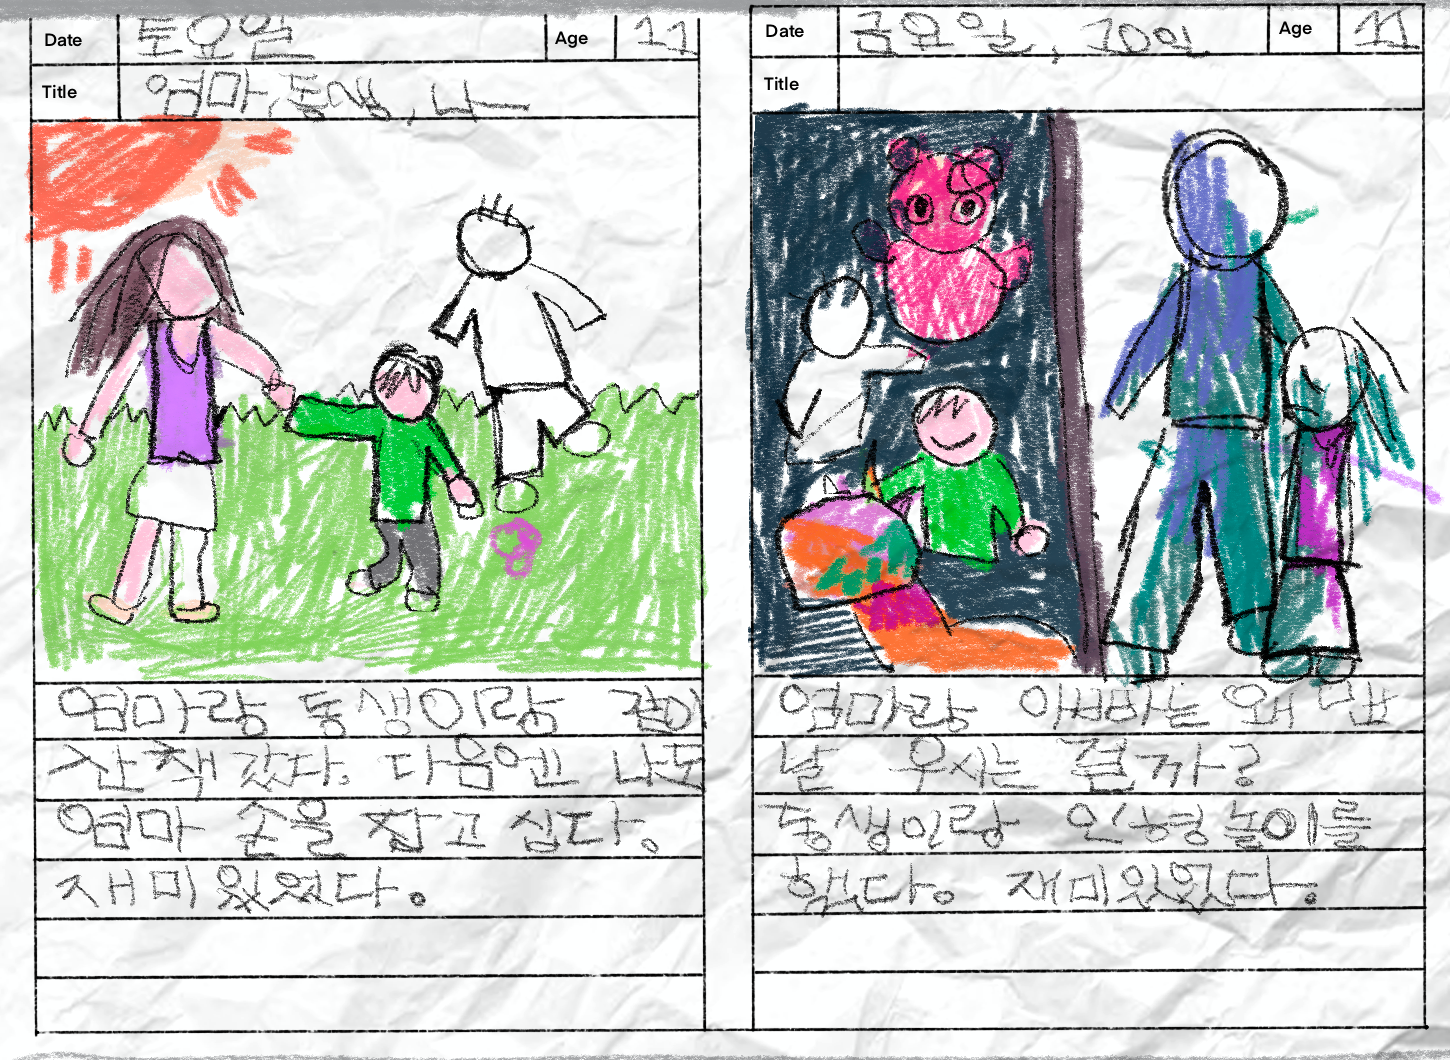
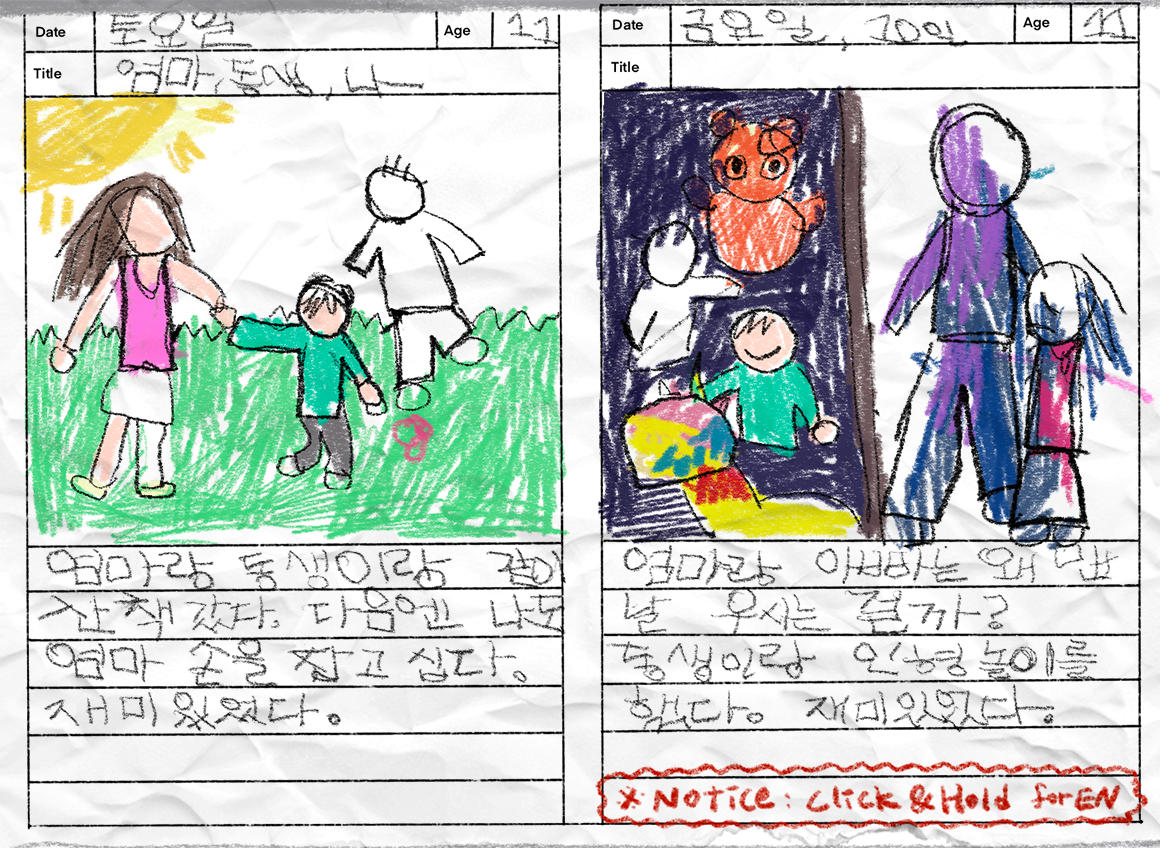
add EN instructions, change YJ img

diff --git a/index.html b/index.html
@@ -22,7 +22,7 @@
         <div class="landingAsset">
             <img src="./assets/head.gif">
             <p class="title">persona</p>
-            <h1><br> 입장하기 위해 마우스를 움직이세요<br>To enter, please move the mouse</h1>
+            <h1 class="landingWord"><br> 입장하기 위해 마우스를 움직이세요<br>To enter, please move the mouse</h1>
         </div>
     </div>
 
@@ -94,22 +94,8 @@
                 <img src="./assets/title.gif">
             </div>
             <article id="Intro" data-domain="local" data-loaded="1" data-name="Persona Introduction">
-                <!-- <div class="text">
-                    <h1>Introduction</h1> 
-                    <p>
-                        <br><br>Welcome! This unique online space allows you to delve into 'Jeff's' memories and mental world. 
-                        Immerse yourself in Jeff's world through our prepared video series and interactive elements. For a smooth viewing experience, please refer to the following guidelines.
-                        <br><br>
-                        <br><br>1.To understand the story, watch the videos in alphabetical order from 'a' to 'i'.
-                        <br><br>2.Use the mini-map located at the top left to freely explore this space!
-                        <br><br>3.If you look closely at the elements within the space, you'll be able to discover new things!
-                        <br><br>4.We would appreciate it if you could leave your fresh perspectives and experiences in our guestbook.
-                        <br><br>
-                        <br><br>Enjoy your exploration!
-                    </p>
-                </div> -->
-
-                <div class="text">
+              
+              <div id="KRintro" class="text">
                     <h1>안내글</h1> 
                     <p>
                         <br><br>환영합니다! 이 공간은 프로이트와 칼융의 심리학에 기반하여 제작된 곳으로 인간의 페르소나를 주제로 다루고 있습니다.
@@ -125,13 +111,41 @@
                         <br>
                         <li>ZONE1은 소개글과 영상, </li>
                         <li>ZONE2는 제프의 유년기,</li>
-                        <li>ZONE3은 우측 상단 공간은 제프의 청소년기,</li>
-                        <li>ZONE4는 우측 하단의 공간은 제프의 현재</li>
+                        <li>ZONE3는 제프의 청소년기,</li>
+                        <li>ZONE4는 제프의 현재 이야기,</li>
                         <li>ZONE5는 이 이야기의 엔딩을 다루고 있습니다.</li>
                         <br>미니맵을 통해 다섯 구역을 자유롭게 돌아다니며 <b>영상을 차례대로 관람</b>해주세요!
                         <br>모니터 좌측 '페르소나 관람 메뉴얼'을 참고하셔도 좋습니다!
                     </p>
                 </div>
+
+                  <div id="ENintro" class="text" style="display:none">
+                    <h1>Instructions</h1> 
+                    <p>
+                        <br><br>Welcome! This unique online space based on the psychology of Freud and Carl Jung and explores the theme of the human personality. 
+                        By <ins><b>watching the videos in order,</ins></b> you can explore the psyche of the main character, Jeff.
+                        To ensure a smooth experience, <ins><b>please follow the guidelines below</ins></b> 👀🌟👀.
+                        <br>
+                        <br><br>▪ <i><b>Tap the mini-map</i></b> in the top left corner to move around freely!
+                        <br><br>▪ Please refer to the minimap and <i><b>view videos alphabetically</i></b> from 'Video A' to 'Video G'.
+                        <br><br>▪ <i><b>Hover over objects</i></b> near the video to read Jeff's diary entry
+                        <br><br>▪ When you're done, go to the GUEST BOOK section and leave a comment of your experience🤍
+                        <br><br>
+                        <br><br>The space is divided into five main areas.
+                        <br>
+                        <li>ZONE1 is more like an Introduction part,</li>
+                        <li>ZONE2 is about Jeff's childhood,</li>
+                        <li>ZONE3 is about Jeff's Adolescence,</li>
+                        <li>ZONE4 is showing Jeff's current story</li>
+                        <li>ZONE5 is dealing with the ending of this whole story.</li>
+                        <br>Use the minimap to move around the five zones and <b>watch the videos in order!</b>
+                        <br>You can also refer to 'Persona Manual' on the left side of the screen!
+
+
+                        <br><br>Enjoy your exploration!
+                    </p>
+                </div>
+                <button id="toggleButton" class="toggleButton">KR/EN 전환</button>
             </article>
 
             <div class="mapIcon" style="width: 18.12px; height: 14.04px; top: 2840px; left: 970px; z-index: 0; border: none; background: black;">
@@ -147,46 +161,46 @@
     
             <article id="VideoB" class="" data-domain="youtube-nocookie.com" data-loaded="1" data-id="" data-type="art" data-src="https://www.youtube-nocookie.com/embed/2h70osEDvX8?autoplay=0&amp;controls=1&amp;rel=0&amp;enablejsapi=1&amp;playsinline=1" data-name="VideoB" data-youtubesync="true" style="z-index: 1; top: 4930px; left: 360px; width: 1600px; height: 970px; border-width: 1px; background-color: rgb(255, 255, 255);">
                 <div style="width:100%; height:100%" class="iframe">
-                    <iframe id="iframe2" class="iframe" data-showvolume="true" data-volume="100" scrolling="no" frameborder="0" allow="autoplay" muted="" width="100%" height="100%" tabindex="-1" title="VideoB" src="https://www.youtube-nocookie.com/embed/2h70osEDvX8?autoplay=0&amp;controls=0&amp;rel=0&amp;enablejsapi=1&amp;playsinline=1" data-video="false">
+                    <iframe id="iframe2" class="iframe" data-showvolume="true" data-volume="100" scrolling="no" frameborder="0" allow="autoplay" muted="" width="100%" height="100%" tabindex="-1" title="VideoB" src="https://www.youtube-nocookie.com/embed/2h70osEDvX8?autoplay=0&amp;controls=1&amp;rel=0&amp;enablejsapi=1&amp;playsinline=1" data-video="false">
                     </iframe>
                     <input type="range" min="0" max="100" step="10" class="volumeSlider" data-player-id="artwork39">
                 </div>
             </article>
             <article id="VideoC" class="" data-domain="youtube-nocookie.com" data-loaded="0" data-type="art" data-src="https://www.youtube-nocookie.com/embed/hIggOw_jNdE?autoplay=0&amp;controls=1&amp;rel=0&amp;enablejsapi=1&amp;playsinline=1" data-name="VideoC" data-youtubesync="true" style="z-index: 1; top: 6050px; left: 1970px; width: 1608px; height: 1000px; border-width: 1px; background-color: rgb(255, 255, 255);">
                 <div style="width:100%; height:100%" class="iframe">
-                    <iframe id="iframe3" class="iframe" data-showvolume="true" data-volume="100" scrolling="no" frameborder="0" allow="autoplay" muted="" width="100%" height="100%" tabindex="-1" title="VideoC" src="https://www.youtube-nocookie.com/embed/hIggOw_jNdE?autoplay=0&amp;controls=0&amp;rel=0&amp;enablejsapi=1&amp;playsinline=1" data-video="false">
+                    <iframe id="iframe3" class="iframe" data-showvolume="true" data-volume="100" scrolling="no" frameborder="0" allow="autoplay" muted="" width="100%" height="100%" tabindex="-1" title="VideoC" src="https://www.youtube-nocookie.com/embed/hIggOw_jNdE?autoplay=0&amp;controls=1&amp;rel=0&amp;enablejsapi=1&amp;playsinline=1" data-video="false">
                     </iframe>
                 </div>
             </article>
-            <article id="VideoD" class="" data-domain="youtube-nocookie.com" data-loaded="0" data-id="" data-type="art" data-src="https://www.youtube-nocookie.com/embed/zn8-R2NWNJ0?autoplay=0&amp;controls=1&amp;rel=0&amp;enablejsapi=1&amp;playsinline=1" data-name="VideoD" data-youtubesync="true" style="z-index: 1; top: 900px; left: 5920px; width: 1500px; height: 900px; border-width: 1px; background-color: rgb(255, 255, 255);">
+            <article id="VideoD" class="" data-domain="youtube-nocookie.com" data-loaded="0" data-id="" data-type="art" data-src="https://www.youtube-nocookie.com/embed/2m66KQFcw1I?autoplay=0&amp;controls=1&amp;rel=0&amp;enablejsapi=1&amp;playsinline=1" data-name="VideoD" data-youtubesync="true" style="z-index: 1; top: 900px; left: 5920px; width: 1500px; height: 900px; border-width: 1px; background-color: rgb(255, 255, 255);">
                 <div style="width:100%; height:100%" class="iframe">
-                    <iframe id="iframe4" class="iframe" data-showvolume="true" data-volume="100" scrolling="no" frameborder="0" allow="autoplay" muted="" width="100%" height="100%" tabindex="-1" title="VideoD" src="https://www.youtube-nocookie.com/embed/zn8-R2NWNJ0?autoplay=0&amp;controls=0&amp;rel=0&amp;enablejsapi=1&amp;playsinline=1" data-video="false">
+                    <iframe id="iframe4" class="iframe" data-showvolume="true" data-volume="100" scrolling="no" frameborder="0" allow="autoplay" muted="" width="100%" height="100%" tabindex="-1" title="VideoD" src="https://www.youtube-nocookie.com/embed/2m66KQFcw1I?autoplay=0&amp;controls=1&amp;rel=0&amp;enablejsapi=1&amp;playsinline=1" data-video="false">
                     </iframe>
                 </div>
             </article>
-            <article id="VideoE" class="" data-domain="youtube-nocookie.com" data-loaded="0" data-id="" data-type="art" data-src="https://www.youtube-nocookie.com/embed/zn8-R2NWNJ0?autoplay=0&amp;controls=1&amp;rel=0&amp;enablejsapi=1&amp;playsinline=1" data-name="VideoE" data-youtubesync="true" style="z-index: 1; top: 6580px; left: 5200px; width: 1515px; height: 820px; border-width: 1px; background-color: rgb(255, 255, 255);">
+            <article id="VideoE" class="" data-domain="youtube-nocookie.com" data-loaded="0" data-id="" data-type="art" data-src="https://www.youtube-nocookie.com/embed/2m66KQFcw1I?autoplay=0&amp;controls=1&amp;rel=0&amp;enablejsapi=1&amp;playsinline=1" data-name="VideoE" data-youtubesync="true" style="z-index: 1; top: 6580px; left: 5200px; width: 1515px; height: 820px; border-width: 1px; background-color: rgb(255, 255, 255);">
                 <div style="width:100%; height:100%" class="iframe">
-                    <iframe id="iframe6" class="iframe" data-showvolume="true" data-volume="100" scrolling="no" frameborder="0" allow="autoplay" muted="" width="100%" height="100%" tabindex="-1" title="VideoE" src="https://www.youtube-nocookie.com/embed/zn8-R2NWNJ0?autoplay=0&amp;controls=0&amp;rel=0&amp;enablejsapi=1&amp;playsinline=1" data-video="false">
+                    <iframe id="iframe6" class="iframe" data-showvolume="true" data-volume="100" scrolling="no" frameborder="0" allow="autoplay" muted="" width="100%" height="100%" tabindex="-1" title="VideoE" src="https://www.youtube-nocookie.com/embed/2m66KQFcw1I?autoplay=0&amp;controls=1&amp;rel=0&amp;enablejsapi=1&amp;playsinline=1" data-video="false">
                     </iframe>
                 </div>
             </article>
-            <article id="VideoF" class="" data-domain="youtube-nocookie.com" data-loaded="0" data-id="" data-type="art" data-src="https://www.youtube-nocookie.com/embed/zn8-R2NWNJ0?autoplay=0&amp;controls=1&amp;rel=0&amp;enablejsapi=1&amp;playsinline=1" data-name="VideoF" data-youtubesync="true" style="z-index: 1; top: 5555px; left: 6350px; width: 1225px; height: 815px; border-width: 1px; background-color: rgb(255, 255, 255);">
+            <article id="VideoF" class="" data-domain="youtube-nocookie.com" data-loaded="0" data-id="" data-type="art" data-src="https://www.youtube-nocookie.com/embed/2m66KQFcw1I?autoplay=0&amp;controls=1&amp;rel=0&amp;enablejsapi=1&amp;playsinline=1" data-name="VideoF" data-youtubesync="true" style="z-index: 1; top: 5555px; left: 6350px; width: 1225px; height: 815px; border-width: 1px; background-color: rgb(255, 255, 255);">
                 <div style="width:100%; height:100%" class="iframe">
-                    <iframe id="iframe7" class="iframe" data-showvolume="true" data-volume="100" scrolling="no" frameborder="0" allow="autoplay" muted="" width="100%" height="100%" tabindex="-1" title="VideoF" src="https://www.youtube-nocookie.com/embed/zn8-R2NWNJ0?autoplay=0&amp;controls=0&amp;rel=0&amp;enablejsapi=1&amp;playsinline=1" data-video="false">
+                    <iframe id="iframe7" class="iframe" data-showvolume="true" data-volume="100" scrolling="no" frameborder="0" allow="autoplay" muted="" width="100%" height="100%" tabindex="-1" title="VideoF" src="https://www.youtube-nocookie.com/embed/2m66KQFcw1I?autoplay=0&amp;controls=1&amp;rel=0&amp;enablejsapi=1&amp;playsinline=1" data-video="false">
                     </iframe>
                 </div>
             </article>
-            <article id="VideoG" class="" data-domain="youtube-nocookie.com" data-loaded="0" data-id="" data-type="art" data-src="https://www.youtube-nocookie.com/embed/zn8-R2NWNJ0?autoplay=0&amp;controls=1&amp;rel=0&amp;enablejsapi=1&amp;playsinline=1" data-name="VideoG" data-youtubesync="true" style="z-index: 1; top: 3500px; left: 3590px; width: 1320px; height: 780px; border-width: 1px; background-color: rgb(255, 255, 255);">
+            <article id="VideoG" class="" data-domain="youtube-nocookie.com" data-loaded="0" data-id="" data-type="art" data-src="https://www.youtube-nocookie.com/embed/2m66KQFcw1I?autoplay=0&amp;controls=1&amp;rel=0&amp;enablejsapi=1&amp;playsinline=1" data-name="VideoG" data-youtubesync="true" style="z-index: 1; top: 3500px; left: 3590px; width: 1320px; height: 780px; border-width: 1px; background-color: rgb(255, 255, 255);">
                 <div style="width:100%; height:100%" class="iframe">
-                    <iframe id="iframe8" class="iframe" data-showvolume="true" data-volume="100" scrolling="no" frameborder="0" allow="autoplay" muted="" width="100%" height="100%" tabindex="-1" title="VideoG" src="https://www.youtube-nocookie.com/embed/zn8-R2NWNJ0?autoplay=0&amp;controls=0&amp;rel=0&amp;enablejsapi=1&amp;playsinline=1" data-video="false">
+                    <iframe id="iframe8" class="iframe" data-showvolume="true" data-volume="100" scrolling="no" frameborder="0" allow="autoplay" muted="" width="100%" height="100%" tabindex="-1" title="VideoG" src="https://www.youtube-nocookie.com/embed/2m66KQFcw1I?autoplay=0&amp;controls=1&amp;rel=0&amp;enablejsapi=1&amp;playsinline=1" data-video="false">
                     </iframe>
                 </div>
             </article>
 
             <!--이미지 -->
-            <article id="journal" class="" style="z-index: 1; top: 5080px; left: 2000px; width: 1000px; height: 1000px; border: none; background-color: rgba(0, 0, 0, 0);">
+            <article id="journal" class="" style="z-index: 1; top: 5200px; left: 2200px; width: 1000px; height: 1000px; border: none; background-color: rgba(0, 0, 0, 0);">
                 <div class="imgContainer" style="width: 800px; height: 1000px;" onmousedown="switchJR()" onmouseout="resetJR()" onmouseover="showJR()">
-                    <img id="OBJR" src="./assets/cup.png" alt="journal" class="imgSmall">
+                    <img id="OBJR" src="./assets/YJ.png" alt="journal" class="imgSmall">
                     <div id="hiddenJR" style="display:none">
                         <img id="KRJR" src="./assets/Youngjournal.png" alt="journal" class="imgLarge">
                         <img id="ENJR" src="./assets/Youngjournal_EN.png" alt="journal" class="imgLarge">
@@ -262,5 +276,19 @@
     <script src="https://ajax.googleapis.com/ajax/libs/jquery/3.5.1/jquery.min.js"></script>
     <script src="./js/timeout.js"></script>
     <script src="./js/hideshow.js"></script>
+    <script>
+        document.getElementById('toggleButton').addEventListener('click', function() {
+    var KRintro = document.getElementById('KRintro');
+    var ENintro = document.getElementById('ENintro');
+
+    if (KRintro.style.display === "none") {
+        KRintro.style.display = "block";
+        ENintro.style.display = "none";
+    } else {
+        KRintro.style.display = "none";
+        ENintro.style.display = "block";
+    }
+});
+    </script>
 </body>
 </html>

diff --git a/assets/backasset.scss b/assets/backasset.scss
@@ -85,6 +85,19 @@ font-family: 'Rubik Beastly', cursive;
   margin-left: 28rem;
 }
 
+.toggleButton{
+  padding: 10px;
+  font-family: 'Noto Sans KR';
+  font-size: 1.1rem;
+  position: absolute; 
+  top: 115px; 
+  left: 760px; 
+  border-radius: 40px; 
+  background-color: white;
+  border: none;
+  cursor: pointer;
+}
+
 
 .imgContainer {
   position: relative;

diff --git a/assets/backasset.css b/assets/backasset.css
@@ -81,6 +81,19 @@
   margin-left: 28rem;
 }
 
+.toggleButton {
+  padding: 10px;
+  font-family: "Noto Sans KR";
+  font-size: 1.1rem;
+  position: absolute;
+  top: 115px;
+  left: 760px;
+  border-radius: 40px;
+  background-color: white;
+  border: none;
+  cursor: pointer;
+}
+
 .imgContainer {
   position: relative;
 }
